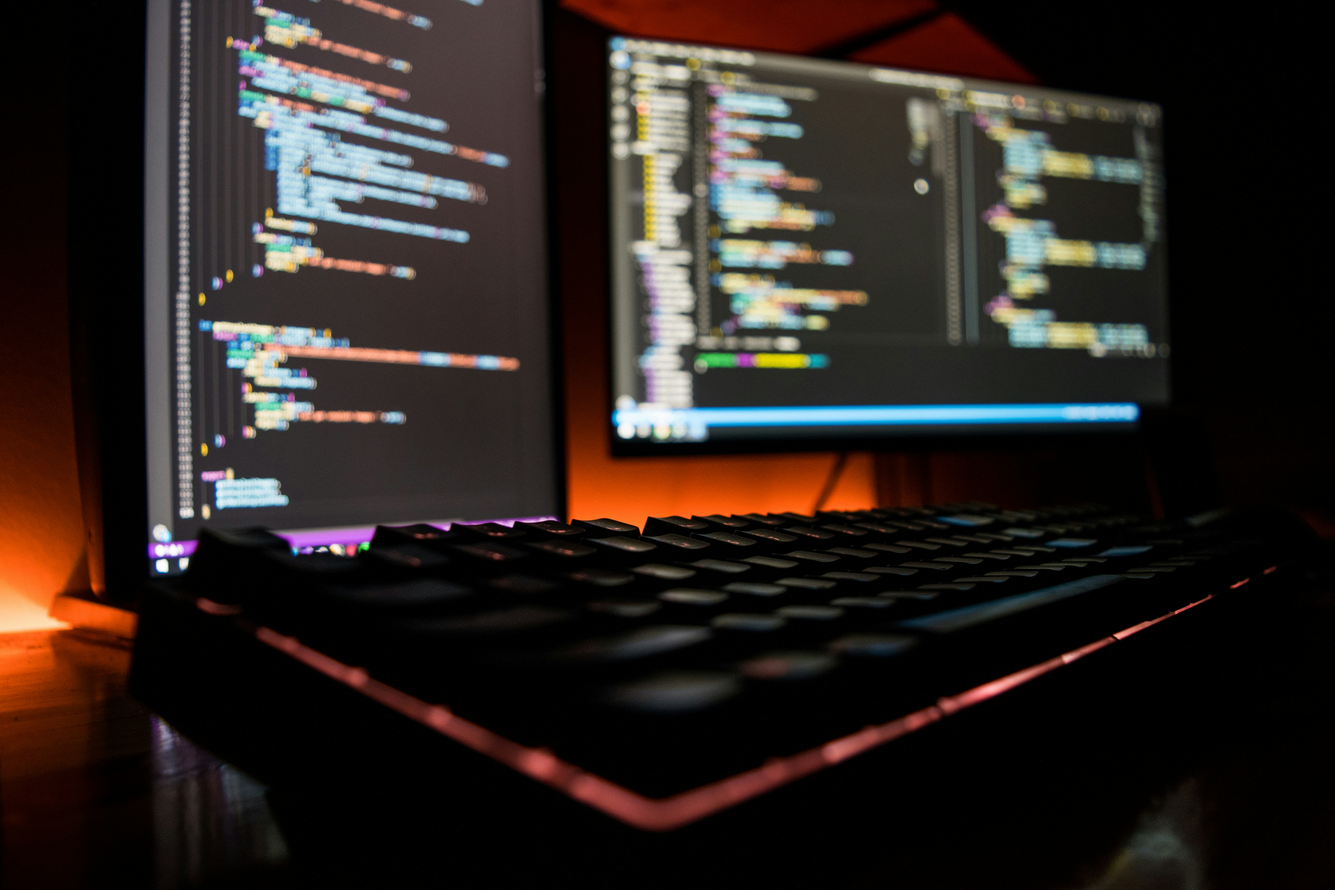
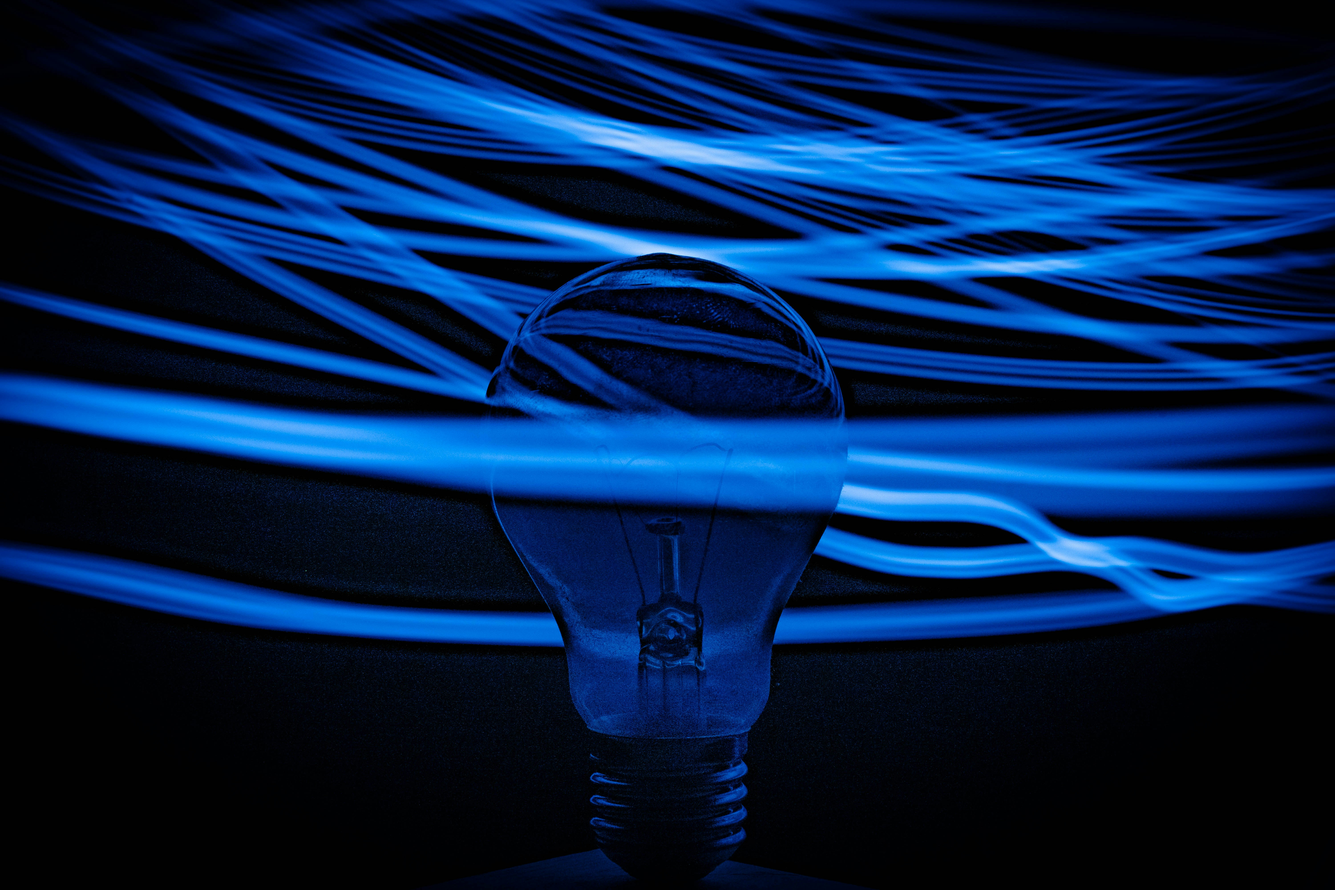
feat: make design more consistent

diff --git a/website/src/domains/home/FAQAccordion.tsx b/website/src/domains/home/FAQAccordion.tsx
@@ -5,7 +5,7 @@ export function FAQAccordion() {
     <Accordion.Group>
       <Accordion className="animate-blur-fade-in">
         <Accordion.Trigger>
-          <h3 className="text-front pr-4 font-bold">Wie läuft eine Zusammenarbeit typisch ab?</h3>
+          <h3 className="text-front pr-4">Wie läuft eine Zusammenarbeit typisch ab?</h3>
         </Accordion.Trigger>
         <Accordion.Body>
           <p className="text-muted-front font-serif">
@@ -19,7 +19,7 @@ export function FAQAccordion() {
 
       <Accordion className="animate-blur-fade-in">
         <Accordion.Trigger>
-          <h3 className="text-front pr-4 font-bold">Was kostet ein Projekt bei euch?</h3>
+          <h3 className="text-front pr-4">Was kostet ein Projekt bei euch?</h3>
         </Accordion.Trigger>
         <Accordion.Body>
           <p className="text-muted-front font-serif">
@@ -32,7 +32,7 @@ export function FAQAccordion() {
 
       <Accordion className="animate-blur-fade-in">
         <Accordion.Trigger>
-          <h3 className="text-front pr-4 font-bold">Arbeitet ihr remote oder vor Ort?</h3>
+          <h3 className="text-front pr-4">Arbeitet ihr remote oder vor Ort?</h3>
         </Accordion.Trigger>
         <Accordion.Body>
           <p className="text-muted-front font-serif">
@@ -47,7 +47,7 @@ export function FAQAccordion() {
 
       <Accordion className="animate-blur-fade-in">
         <Accordion.Trigger>
-          <h3 className="text-front pr-4 font-bold">Welche Technologien nutzt ihr?</h3>
+          <h3 className="text-front pr-4">Welche Technologien nutzt ihr?</h3>
         </Accordion.Trigger>
         <Accordion.Body>
           <p className="text-muted-front font-serif">
@@ -55,20 +55,20 @@ export function FAQAccordion() {
             Legacy-Code ist auch kein Problem für uns. Als grobe Orientierung findest du hier einige unserer
             persönlichen Favoriten:
           </p>
-          <p className="mt-4 font-bold">Frontend (TypeScript):</p>
+          <p className="mt-4">Frontend (TypeScript):</p>
           <ul className="text-muted-front list-disc pl-6 font-serif">
             <li>React / Next</li>
             <li>Vue / Nuxt</li>
             <li>Astro.js</li>
           </ul>
-          <p className="mt-4 font-bold">Backend:</p>
+          <p className="mt-4">Backend:</p>
           <ul className="text-muted-front list-disc pl-6 font-serif">
             <li>Next / PayloadCMS</li>
             <li>Node</li>
             <li>Python</li>
             <li>Java</li>
           </ul>
-          <p className="mt-4 font-bold">Infra:</p>
+          <p className="mt-4">Infra:</p>
           <ul className="text-muted-front list-disc pl-6 font-serif">
             <li>AWS</li>
             <li>Github</li>
@@ -81,7 +81,7 @@ export function FAQAccordion() {
 
       <Accordion className="animate-blur-fade-in">
         <Accordion.Trigger>
-          <h3 className="text-front pr-4 font-bold">Wie schnell könnt ihr starten?</h3>
+          <h3 className="text-front pr-4">Wie schnell könnt ihr starten?</h3>
         </Accordion.Trigger>
         <Accordion.Body>
           <p className="text-muted-front font-serif">
@@ -94,7 +94,7 @@ export function FAQAccordion() {
 
       <Accordion className="animate-blur-fade-in">
         <Accordion.Trigger>
-          <h3 className="text-front pr-4 font-bold">In welchem Arbeitsumfeld arbeitet ihr?</h3>
+          <h3 className="text-front pr-4">In welchem Arbeitsumfeld arbeitet ihr?</h3>
         </Accordion.Trigger>
         <Accordion.Body>
           <p className="text-muted-front font-serif">

diff --git a/website/src/ui/Button.tsx b/website/src/ui/Button.tsx
@@ -3,7 +3,7 @@ import { tv } from "tailwind-variants";
 import type { VariantProps } from "tailwind-variants";
 
 export const button = tv({
-  base: "relative cursor-pointer rounded-xl inline-flex items-center justify-center  transition-all text-sm  font-medium ring-offset-background  focus-visible:outline-none focus-visible:ring-2 focus-visible:ring-ring focus-visible:ring-offset-2 disabled:pointer-events-none disabled:opacity-50",
+  base: "relative cursor-pointer inline-flex items-center justify-center  transition-all text-sm  font-medium ring-offset-background  focus-visible:outline-none focus-visible:ring-2 focus-visible:ring-ring focus-visible:ring-offset-2 disabled:pointer-events-none disabled:opacity-50",
   variants: {
     variant: {
       default:
@@ -20,11 +20,11 @@ export const button = tv({
     },
     color: {},
     size: {
-      default: "h-10 px-4 py-2",
-      sm: "h-8  px-2",
-      lg: "h-12 px-6 py-2",
-      xl: "h-16 px-10", // added xl size
-      icon: "h-8 w-8",
+      default: "h-10 px-4 py-2 rounded-lg",
+      sm: "h-8  px-2 rounded-lg",
+      lg: "h-12 px-6 py-2 rounded-xl",
+      xl: "h-16 px-10 rounded-xl",
+      icon: "h-8 w-8 rounded-xl",
     },
   },
   defaultVariants: {

diff --git a/website/src/ui/TextReveal.tsx b/website/src/ui/TextReveal.tsx
@@ -57,7 +57,7 @@ const Word: FC<WordProps> = ({ children, progress, range }) => {
       <motion.span
         style={{ opacity, filter }}
         className={cn("text-muted-front inline-block font-thin", {
-          "text-front font-bold": children === "A3" || children === "Team",
+          "text-front": children === "A3" || children === "Team",
         })}
       >
         {children}
